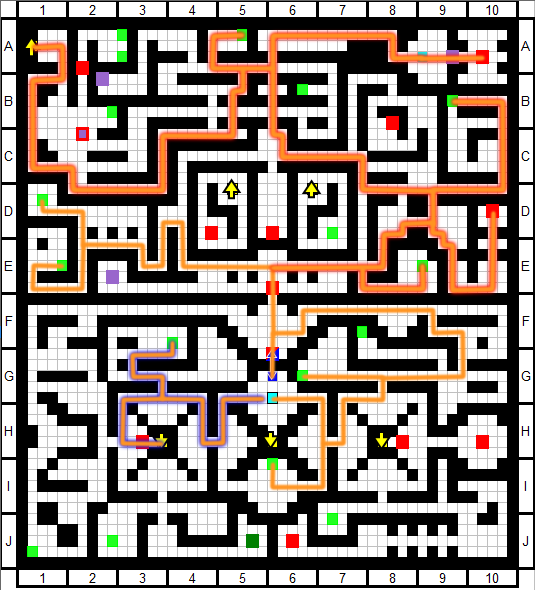
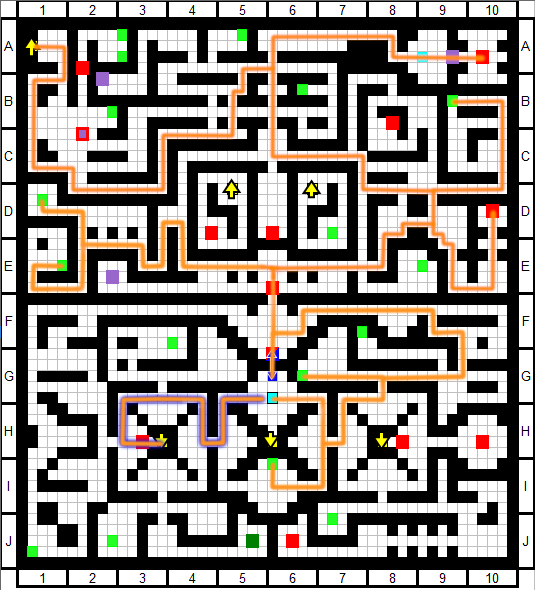
Removed some treasures from 4F and updated map

Changed region(s): [[0.0299, 0.0305, 0.957, 0.5492], [0.2393, 0.5797, 0.329, 0.6712], [0.5383, 0.6712, 0.628, 0.7322]]

diff --git a/item/chests.md b/item/chests.md
@@ -119,7 +119,7 @@ Any treasure located in floor A that can only be obtained after reaching floor B
 | Getitup V | O |
 | Heater Muffler | O |
 | Kazu's Amulet | X |
-| Light Staff | O |
+| Light Staff | X |
 | LOVE Machine 3322 | O |
 | Magic Bird's Crest x4 | X |
 | Midnight Oil Set | X |
@@ -129,8 +129,8 @@ Any treasure located in floor A that can only be obtained after reaching floor B
 | Sword of Singing Delusion | X |
 | Ultrafast Granite Keystone | O |
 | Violet Green Rupee | O |
-| Floor Total | 7 |
-| Combined Total | 44 |
+| Floor Total | 6 |
+| Combined Total | 39 |
 
 #### <a id="floor-5"></a>Floor 5
 
